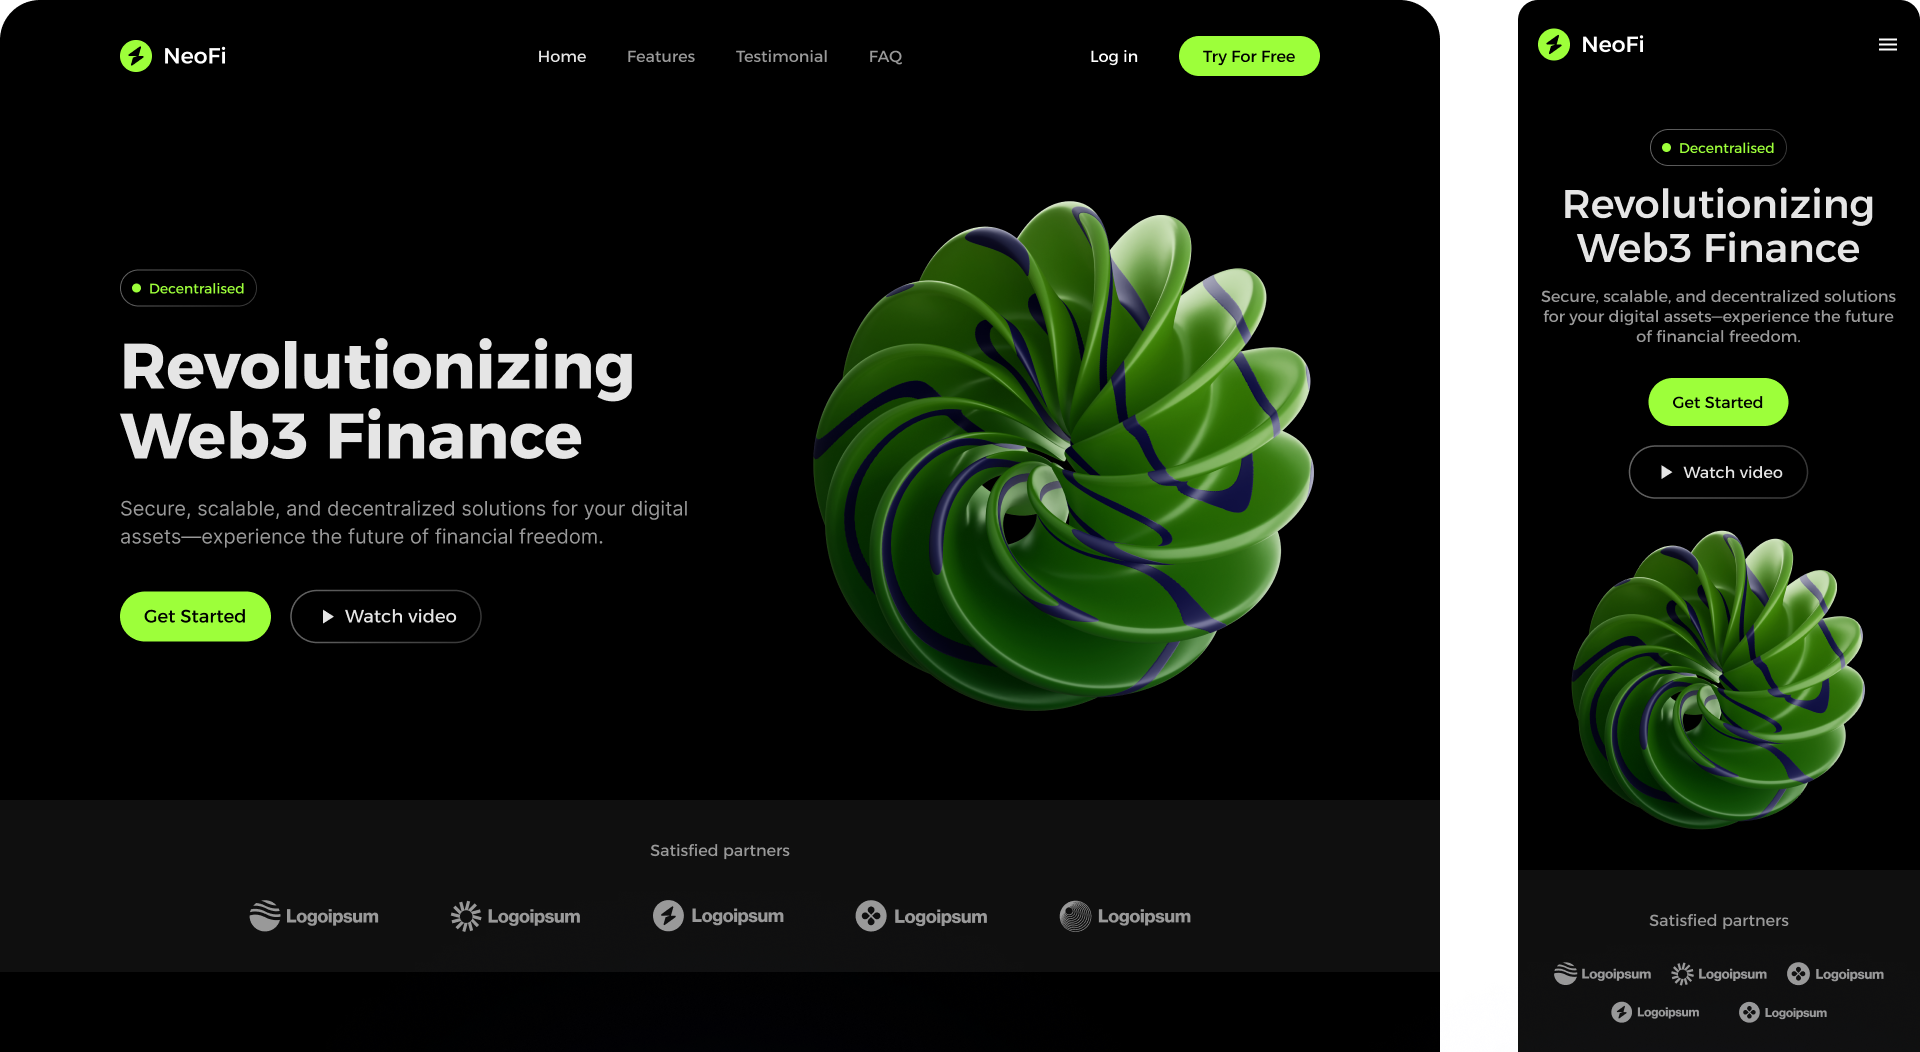
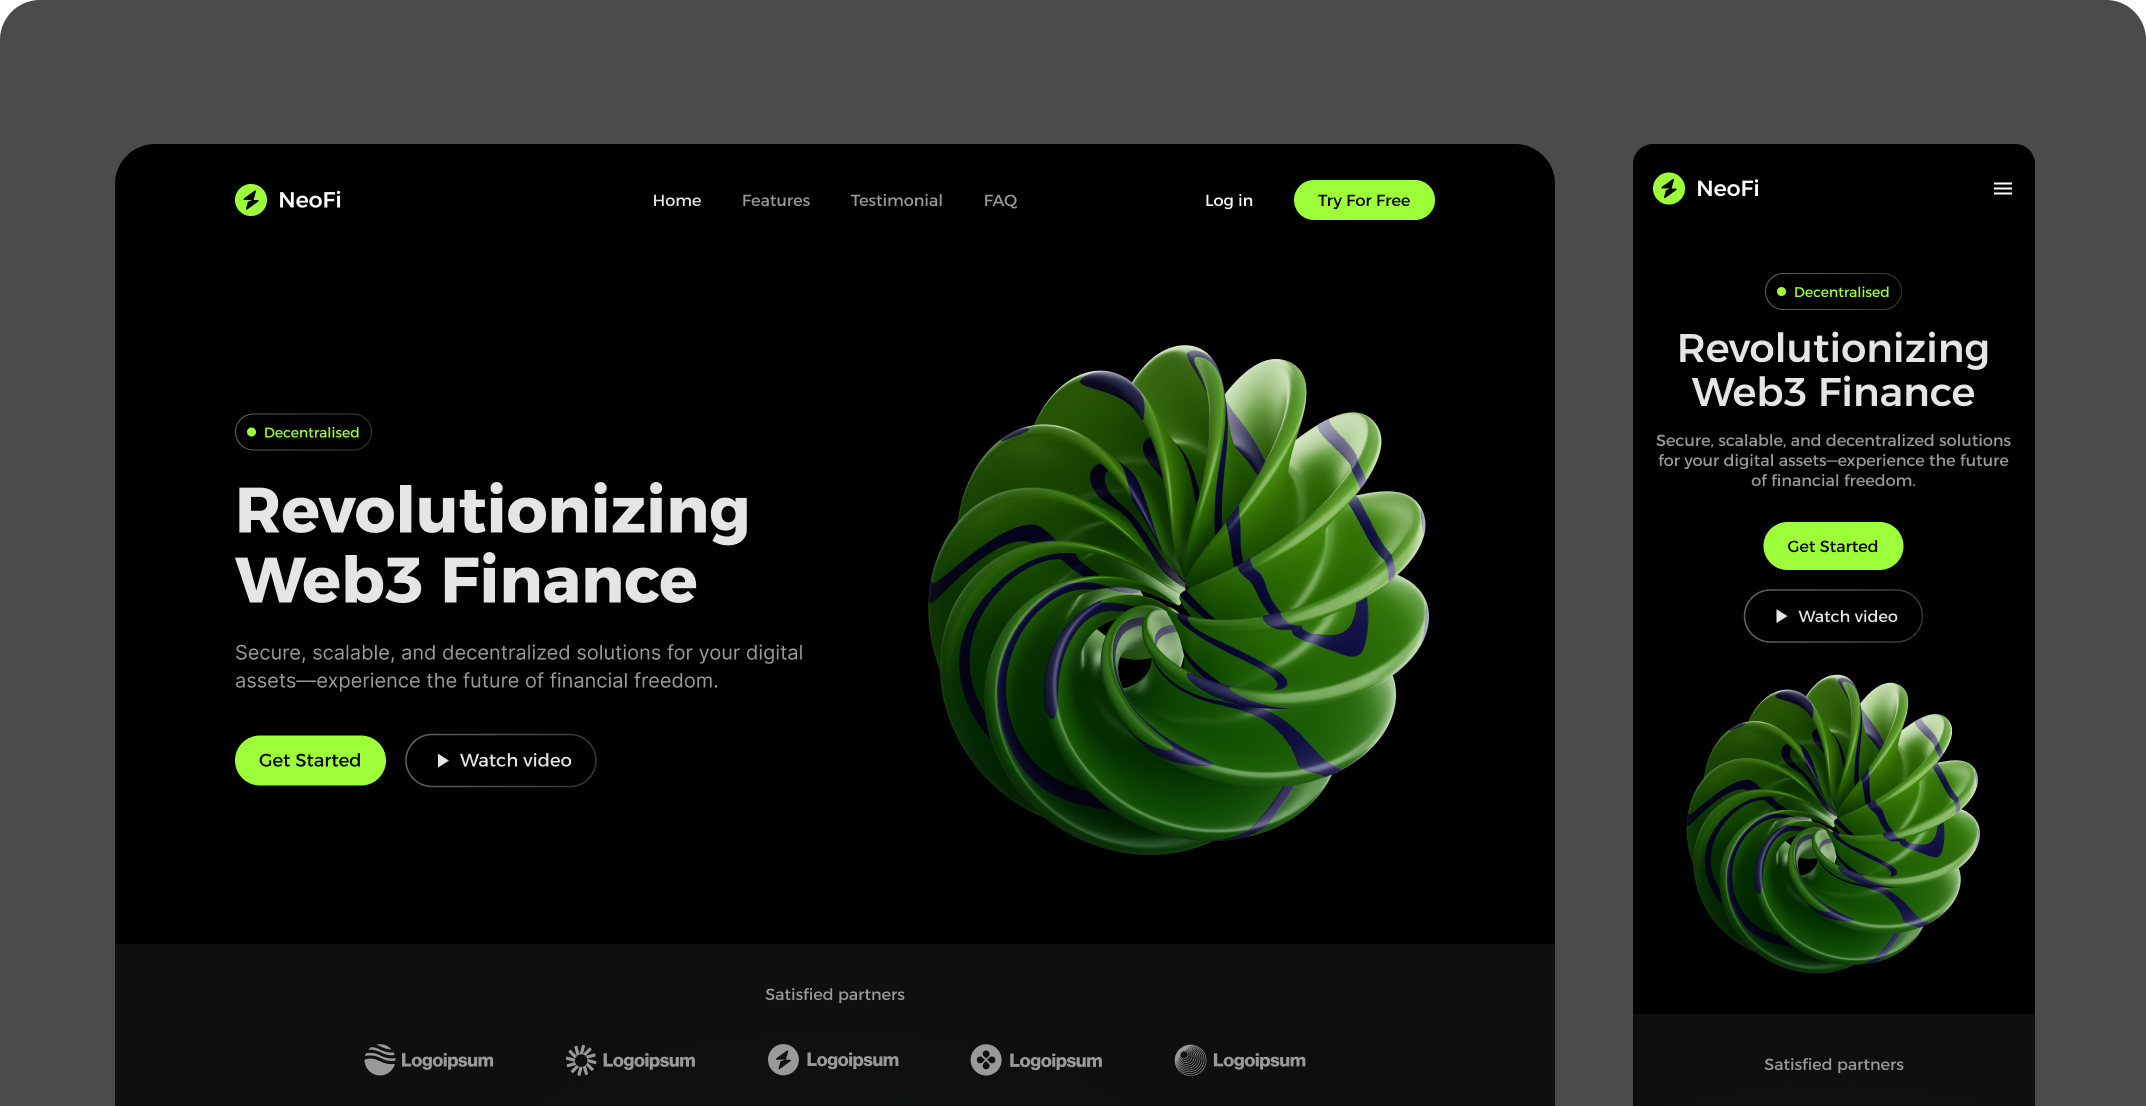
new capa

diff --git a/README.md b/README.md
@@ -3,7 +3,7 @@ Neste estudo de caso pude codificar o protótipo da landing page NeoFi e aplicar
 
 ## Landing Page - Preview
 
-![capa (capa)](./src/assets/img/capa-2.png)
+![capa (capa)](./src/assets/img/capa.png)
 <!-- ![capa (capa)](./src/assets/img/capa.png) -->
 
 - Projeto - **[Figma](https://www.figma.com/community/file/1472437465816738365)**
